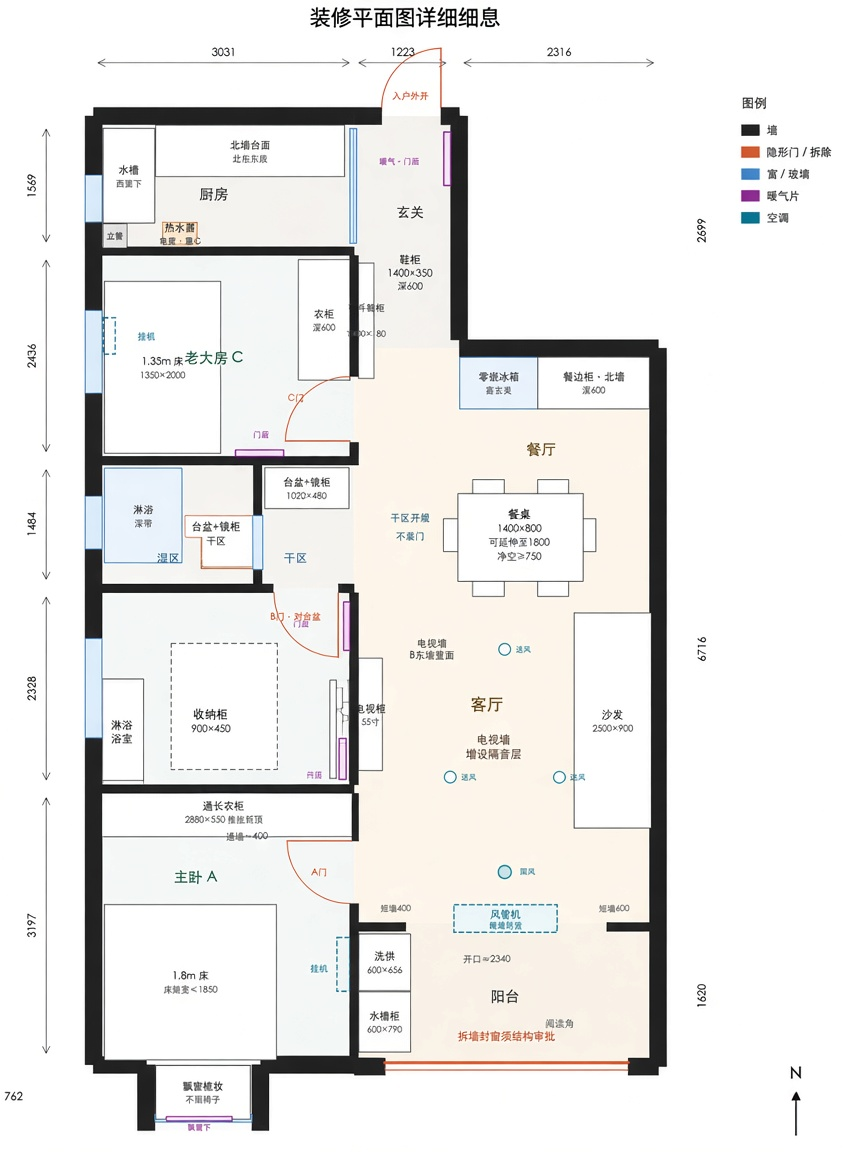
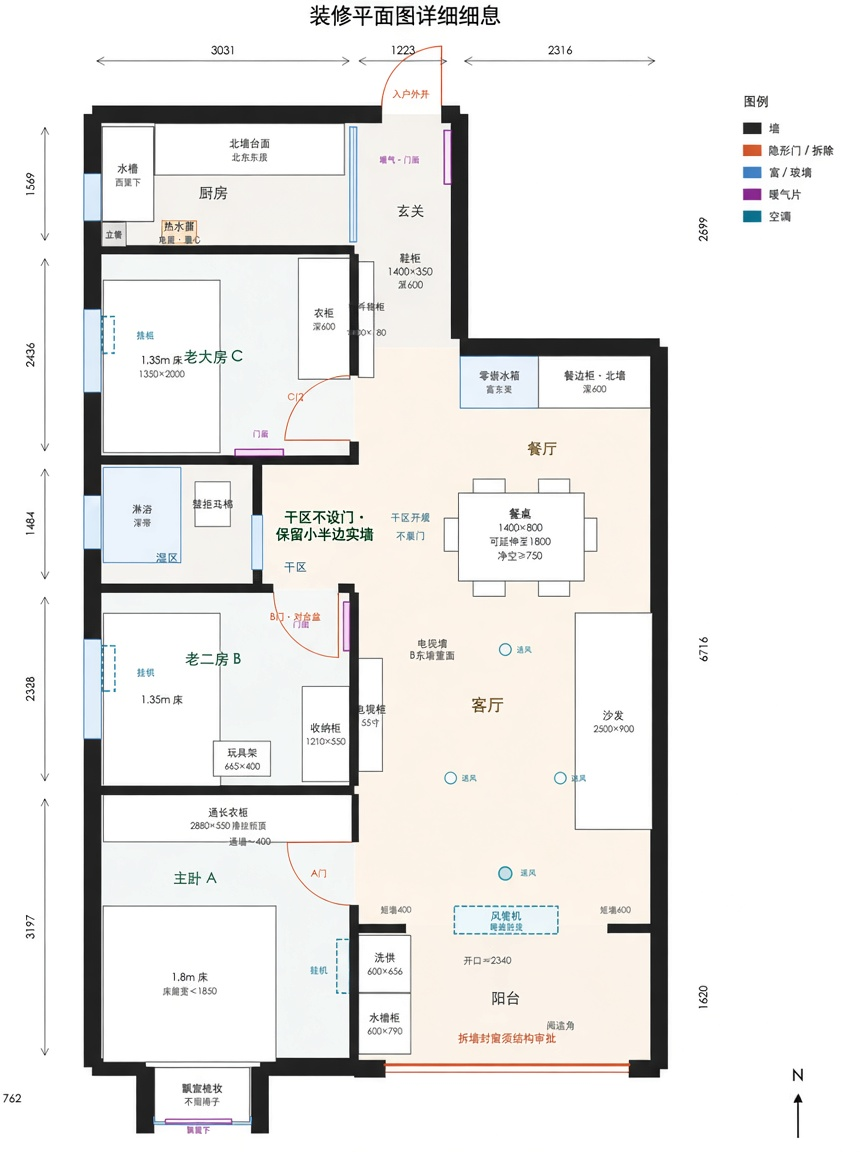
Revise dry bath area: keep half wall, no door
Drop the glass sliding door; retain the original short solid
stub wall with an open dry vanity to the corridor.

diff --git a/floor-plan-revision/index.html b/floor-plan-revision/index.html
@@ -146,7 +146,7 @@
 <body>
   <header>
     <h1>装修平面图修订版</h1>
-    <p>百瑞景中央生活区六期 · F 户型（约 90㎡）· 在原装修方案基础上落实审核修改：卫浴干区设门、鞋柜加深、老二房收纳精简、电视墙隔音与阳台拆改施工注记。</p>
+    <p>百瑞景中央生活区六期 · F 户型（约 90㎡）· 在原装修方案基础上落实审核修改：卫浴干区保留小半边实墙、不设门；鞋柜加深、老二房收纳精简、电视墙隔音与阳台拆改施工注记。</p>
   </header>
 
   <div class="layout">
@@ -276,7 +276,7 @@
           <text x="3400" y="3250" font-size="100" fill="#c45c26">C 暗门</text>
         </g>
 
-        <!-- ========== 卫浴（修订：干区设门） ========== -->
+        <!-- ========== 卫浴（干区：保留小半边实墙，不设门） ========== -->
         <g id="bath">
           <!-- 湿区 -->
           <rect x="120" y="4200" width="1750" height="1200" fill="#eef6f8" stroke="#1a1f24" stroke-width="18" />
@@ -290,19 +290,19 @@
           <!-- 湿区门 -->
           <path d="M 1870 4300 A 500 500 0 0 1 1870 4800" fill="none" stroke="#1a1f24" stroke-width="18" />
 
-          <!-- 干区 -->
-          <rect x="1950" y="4200" width="1081" height="1200" fill="rgba(15,107,76,0.10)" stroke="#0f6b4c" stroke-width="22" />
-          <text x="2490" y="4450" text-anchor="middle" font-size="130" font-weight="700" fill="#0f6b4c">干区</text>
+          <!-- 干区：对走廊开敞，北侧保留小半边实墙，不设门 -->
+          <rect x="1950" y="4200" width="1081" height="1200" fill="#f7f5f0" stroke="#1a1f24" stroke-width="18" />
+          <text x="2490" y="4450" text-anchor="middle" font-size="130" font-weight="700">干区</text>
           <!-- 台盆 -->
           <rect x="2100" y="4550" width="800" height="480" fill="#fff" stroke="#1a1f24" stroke-width="16" />
           <text x="2500" y="4780" text-anchor="middle" font-size="95">台盆+镜柜</text>
           <text x="2500" y="4900" text-anchor="middle" font-size="85">1020×480</text>
 
-          <!-- 修订：干区玻璃移门 -->
-          <rect x="3031" y="4300" width="140" height="1000" fill="rgba(61,126,166,0.25)" stroke="#0f6b4c" stroke-width="28" />
-          <line x1="3101" y1="4300" x2="3101" y2="5300" stroke="#3d7ea6" stroke-width="16" stroke-dasharray="40 25" />
-          <text x="3550" y="4750" font-size="110" font-weight="700" fill="#0f6b4c">干区玻璃移门</text>
-          <text x="3550" y="4880" font-size="90" fill="#0f6b4c">（修订新增）</text>
+          <!-- 原有小半边实墙（走廊侧北端矮/短墙，开口朝南，无门） -->
+          <rect x="3031" y="4125" width="140" height="520" fill="#2b2b2b" />
+          <rect x="2900" y="4125" width="271" height="120" fill="#2b2b2b" />
+          <text x="3550" y="4350" font-size="105" font-weight="700" fill="#0f6b4c">保留小半边实墙</text>
+          <text x="3550" y="4480" font-size="95" fill="#0f6b4c">干区不设门（开敞）</text>
 
           <text x="1515" y="5550" text-anchor="middle" font-size="140" font-weight="700">卫浴</text>
         </g>
@@ -465,7 +465,7 @@
         <span class="tag">本次修订</span>
         <h2>已落实的修改</h2>
         <ol>
-          <li><strong>卫浴干区</strong>：新增玻璃移门，解决开放干区私密与气味问题；湿区仍独立。</li>
+          <li><strong>卫浴干区</strong>：不设门；保留原有小半边实墙作遮挡，干区对走廊开敞；湿区仍独立。</li>
           <li><strong>玄关鞋柜</strong>：深度 180→350mm（1400×350），可放常规鞋；门后暖气保持 ≥200mm 净距。</li>
           <li><strong>老二房 B</strong>：取消落地玩具架，改壁挂置物；收纳柜缩为 900×450，腾出活动区。</li>
           <li><strong>餐厅</strong>：保留 1400×800，建议可伸缩至 1800；标注通行净距 ≥750mm。</li>

diff --git a/floor-plan-revision/README.md b/floor-plan-revision/README.md
@@ -8,7 +8,7 @@
 
 ## 本次修改摘要
 
-1. **卫浴干区**：增加玻璃移门，不再完全开敞。
+1. **卫浴干区**：**不设门**；保留原有小半边实墙，干区对走廊开敞。
 2. **玄关鞋柜**：深度 180 → 350 mm。
 3. **老二房 B**：落地玩具架改为壁挂置物，收纳柜缩小，留出活动区。
 4. **餐厅**：餐桌建议可伸缩，通行净距 ≥750 mm。
